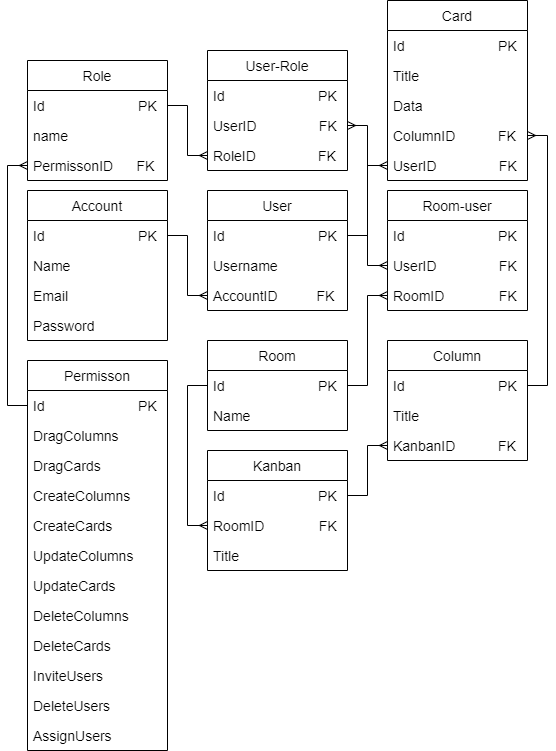
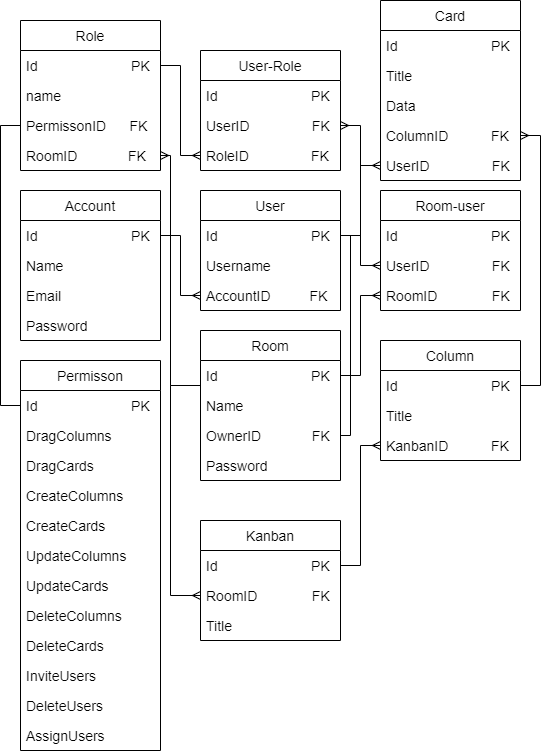
add new:  - conrollers  - db connection  - error db model were changed.

diff --git a/controllers/roomController.js b/controllers/roomController.js
@@ -1,0 +1,118 @@
+const { Room, User, RoomUser } = require('../models/models');
+
+const ApiError = require('../error/ApiError');
+const status_code = require('../error/ErrorMessages');
+
+class RoomController {
+    async create(req, res, next) {
+        try {
+            const { name } = req.body;
+            if (!name) {
+                return next(ApiError.badRequest(status_code[474]));
+            }
+            const ownerId = req.user.id;
+            const room = await Room.create({ name, ownerId });
+            const roomId = room.id;
+            const user = await User.create({ username:'admin', ownerId });
+            const userId = user.id;
+            const roomUser = await RoomUser.create({userId, roomId});
+            return res.json(roomUser);
+        } catch (e) {
+            next(ApiError.badRequest(e.message));
+        }
+    }
+    async addUser(req, res, next) {
+        try {
+            const {id, newAccountId} = req.body;
+            if (!newAccountId){
+                return next(ApiError.badRequest(status_code[473]));
+            }
+            const ownerId = req.user.id;
+            const room = await Room.findOne({where: {id}})
+            if  (ownerId != room.ownerId){
+                return next(ApiError.badRequest(status_code[472]));
+            }
+            const newUser = await User.create({username:'', newAccountId})
+            const newUserId = newUser.id;
+            const roomId = room.id;
+            const roomUser = await RoomUser.create({newUserId, roomId});
+            return res.json(roomUser);
+        } catch (e) {
+            next(ApiError.badRequest(e.message));
+        }
+    }
+    async delete(req, res, next) {
+        try {
+            let { id } = req.params;
+            const delRoom = await Room.findOne({where: { id } })
+            if (!delRoom){
+                return next(ApiError.badRequest(status_code[475]));
+            }
+            const ownerId = req.user.id;
+            if (delRoom.ownerId != ownerId){
+                return next(ApiError.badRequest(status_code[472]));
+            }
+            let room = await Room.destroy({ where: { id }});
+            return res.json(`Комната ${delRoom.name} удалена`);
+        } catch (e) {
+            next(ApiError.badRequest(e.message));
+        }
+    }
+    async update(req, res, next) {
+        try {
+            const { id, name, newOwnerID } = req.body;
+            if (!id) {
+                return next(ApiError.badRequest(status_code[490]));
+            }
+            if (!newOwnerID){
+                return next(ApiError.badRequest(status_code[473]));
+            }
+            const checkOwner = await User.findOne({where: { id:newOwnerID }});
+            if (!checkOwner){
+                return next(ApiError.badRequest(status_code[473]));
+            }
+            const checkRoom = await Room.findOne({where: { id }});
+            if (!checkRoom){
+                return next(ApiError.badRequest(status_code[475]));
+            }
+
+            let room = await Room.update(
+                {
+                    name: name,
+                    ownerId: newOwnerID
+                },
+                {
+                    where: {id}
+                }
+            );
+
+            room = await Room.findOne({where: { id }});
+            
+            return res.json(room);
+        } catch (e) {
+            next(ApiError.badRequest(e.message));
+        }
+    }
+    async getAll(req, res, next){
+        try {
+            const userId = req.user.id;
+            if (!userId){
+                return next(ApiError.badRequest(status_code[492]));
+            }
+
+
+        } catch (e) {
+            next(ApiError.badRequest(e.message));
+        }
+    }
+    async getOne(req, res, next){
+        try {
+            const { id } = req.params;
+            const room = await Room.findOne({where: { id }});
+            return res.json(room)
+        } catch (e) {
+            next(ApiError.badRequest(e.message));
+        }
+    }
+}
+module.exports = new RoomController();

diff --git a/controllers/accountController.js b/controllers/accountController.js
@@ -1,0 +1,107 @@
+const { Account } = require('../models/models');
+
+const bcrypt = require('bcrypt');
+const jwt = require('jsonwebtoken');
+
+const ApiError = require('../error/ApiError');
+const status_code = require('../error/ErrorMessages');
+
+
+const generateJwt = (id, name, email) => {
+    return jwt.sign(
+        { id, name, email },
+        process.env.SECRET_KEY,
+        { expiresIn: '24h' }
+    );
+}
+
+class AccountController {
+    async registration(req, res, next) {
+        const { name, email, password } = req.body;
+        if (!email || !password) {
+            return next(ApiError.badRequest(status_code[463]));
+        }
+        const candidate = await Account.findOne({ where: { email } });
+        if (candidate) {
+            return next(ApiError.badRequest(status_code[453]));
+        }
+        const hashPassword = await bcrypt.hash(password, 5);
+        const account = await Account.create({ name, email, password: hashPassword });
+
+        const token = generateJwt(account.id, account.name, account.email);
+        return res.json({ token })
+    }
+    async login(req, res, next) {
+        const { email, password } = req.body;
+        const account = await Account.findOne({ where: { email } });
+        if (!account) {
+            return next(ApiError.badRequest(status_code[452]));
+        }
+        let comparePassword = bcrypt.compareSync(password, account.password);
+        if (!comparePassword) {
+            return next(ApiError.badRequest(status_code[462]));
+        }
+        const token = generateJwt(account.id, account.name, user.email);
+        return res.json({ token });
+    }
+    async check(req, res) {
+        const token = generateJwt(req.account.id, req.account.name, req.account.email);
+        return res.json({ token });
+    }
+    async getAll(req, res) {
+        const accounts = await Account.findAll();
+        return res.json(accounts);
+    }
+    async update(req, res, next) {
+        try {
+            const { id, name, email, password } = req.body;
+            if (!id) {
+                return next(ApiError.badRequest(status_code[490]));
+            }
+            if (!email || !password) {
+                return next(ApiError.badRequest(status_code[462]));
+            }
+            const newAccount = await Account.findOne({ where: { id } });
+            if (!newAccount) {
+                return next(ApiError.badRequest(status_code[452]));
+            }
+            const hashPassword = await bcrypt.hash(password, 5);
+
+            let account = await Account.update(
+                {
+                    name: name,
+                    email: email,
+                    password: hashPassword
+                },
+                {
+                    where: { id },
+                }
+            );
+
+            account = await Account.findOne(
+                {
+                    where: { id }
+                },
+            )
+
+            return res.json(account);
+        } catch (e) {
+            next(ApiError.badRequest(e.message));
+        }
+    }
+    async delOne(req, res, next) {
+        try {
+            let { id } = req.params;
+            const delAccount = await Account.findOne({ where: { id } });
+            if (!delAccount) {
+                return next(ApiError.badRequest(status_code[452]));
+            }
+            let account = await Account.destroy({ where: { id } });
+            return res.json(`Запись ${id} удалена`);
+        } catch (e) {
+            next(ApiError.badRequest(e.message));
+        }
+    }
+}
+
+module.exports = new AccountController();

diff --git a/error/ErrorMessages.js b/error/ErrorMessages.js
@@ -1,0 +1,28 @@
+let status_code = {
+    452: "Пользователь с таким Email не найден",
+    453: "Пользователь с таким Email уже существует",
+
+    462: "Неверный Email или пароль",
+    463: "Неккоректный логин или пароль",
+
+    472: "Недостаточно прав для совершения этого действия",
+    473: "Пользователь не найден", 
+    474: "Не задано название комнаты",
+    475: "Комната не найдена",
+    
+    
+    477: "",
+    478: "",
+    479: "",
+
+    482: "",
+    483: "", 
+    484: "",
+
+    490: "Не указан идентификатор",
+    492: "Не указан идентификатор пользователя",
+
+
+}
+
+module.exports = status_code;

diff --git a/index.js b/index.js
@@ -1,9 +1,18 @@
-const express = require('express')
+
+
+const express = require('express');
+const cors = require('cors');
+
+const sequelize = require('./db');
+const models = require('./models/models');
+const router = require('./routes/routes');
+const errorHandler = require('./middleware/ErrorHandlingMiddleware');
+
+const PORT = process.env.PORT || 5000;
+
 const app = express()
 const WSServer = require('express-ws')(app)
 const aWss = WSServer.getWss()
-const PORT = process.env.PORT || 5000
-const cors = require('cors')
 
 let users = [
     {username: 'admin@gmail.com', pass: 'test123456'},
@@ -11,9 +20,11 @@ let users = [
 
 ]
 let kanbanData = {}
+
 app.use(cors())
 app.use(express.json())
 
+app.use('/api', router)
 
 app.ws('/', (ws, req) => {
     ws.send("Подключено успешно")

diff --git a/models/models.js b/models/models.js
@@ -67,15 +67,18 @@ Account.hasMany(User, {onDelete: 'cascade'});
 User.belongsTo(Account);
 //  User
 User.hasMany(Card);
+User.belongsTo(Room);
 User.belongsToMany(Room, {through:RoomUser});
 User.belongsToMany(Role, {through:UserRole});
 //  Role
-Role.hasMany(Permisson);
+// Role.hasMany(Permisson);
 Role.belongsToMany(User, {through: UserRole});
+Role.belongsTo(Room);
 // Permisson
 Permisson.belongsTo(Role);
 //  Room
 Room.hasMany(Kanban);
+Room.hasMany(Role);
 Room.belongsToMany(User, {through: RoomUser});
 //  Kanban
 Kanban.hasMany(Column);

diff --git a/error/ApiError.js b/error/ApiError.js
@@ -1,0 +1,22 @@
+class ApiError extends Error{
+    constructor(status, message) {
+        super();
+        this.status = status;
+        this.message = message;
+    }
+
+    static badRequest(message){
+        return new ApiError(400, message)
+    }
+    static notFound(message){
+        return new ApiError(404, message)
+    }
+    static internal(message){
+        return new ApiError(500, message)
+    }
+    static forbidden(message){
+        return new ApiError(403, message)
+    }
+
+}
+module.exports = ApiError;

diff --git a/db.js b/db.js
@@ -1,0 +1,16 @@
+const {Sequelize} = require('sequelize');
+require('dotenv').config();
+
+module.exports = new Sequelize(
+    process.env.DB_NAME, 
+    process.env.DB_USER,
+    process.env.DB_PASSWORD,
+    {
+        dialect: 'postgres',
+        host: process.env.DB_HOST,
+        port: process.env.DB_PORT,
+        define: {
+            timestamps: false //Убираем временные метки для удобства
+        }
+    }
+)
